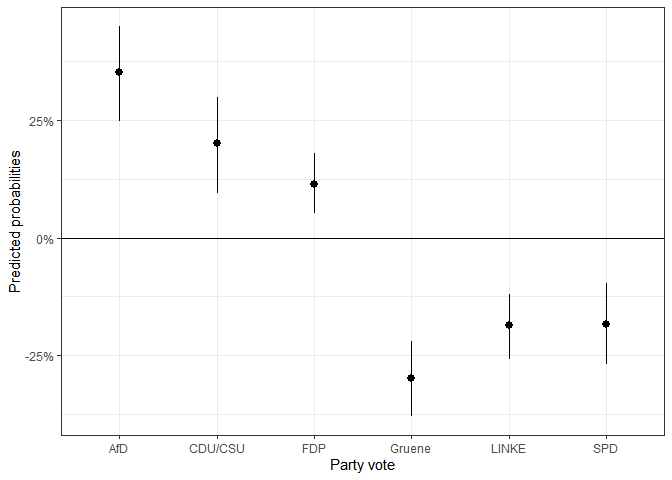
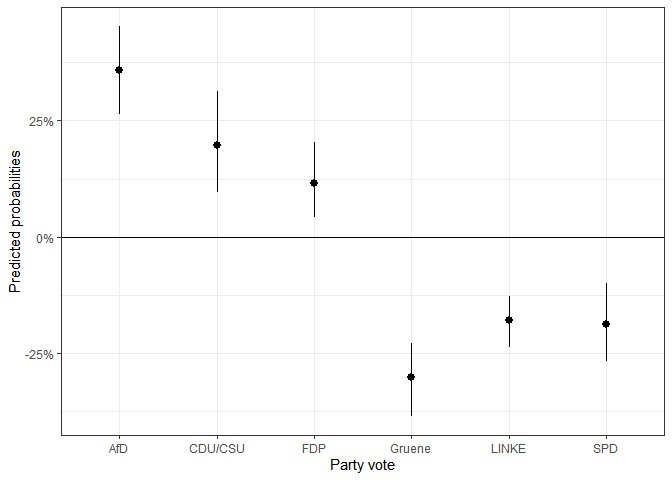
Updated roxygen2

Changed region(s): [[0.0625, 0.4688, 0.9688, 0.5], [0.0312, 0.7188, 0.0938, 0.75], [0.75, 0.6562, 0.7812, 0.6875]]

diff --git a/README.md b/README.md
@@ -7,8 +7,8 @@
 
 [![Travis build
 status](https://travis-ci.org/ManuelNeumann/MNLpred.svg?branch=master)](https://travis-ci.org/ManuelNeumann/MNLpred)
-[![CRAN\_Status\_Badge](http://www.r-pkg.org/badges/version/MNLpred)](http://cran.r-project.org/package=MNLpred)
-[![downloads](http://cranlogs.r-pkg.org/badges/MNLpred)](http://cran.rstudio.com/web/packages/MNLpred/index.html)
+[![CRAN\_Status\_Badge](https://www.r-pkg.org/badges/version/MNLpred)](http://cran.r-project.org/package=MNLpred)
+[![downloads](https://cranlogs.r-pkg.org/badges/MNLpred)](http://cran.rstudio.com/web/packages/MNLpred/index.html)
 [![total\_downloads](https://cranlogs.r-pkg.org/badges/grand-total/MNLpred)](http://cran.rstudio.com/web/packages/MNLpred/index.html)
 <!-- badges: end -->
 
@@ -263,12 +263,12 @@ returns a `plotdata` data set:
 ``` r
 pred1$plotdata %>% head()
 #>   egoposition_immigration vote        mean        lower       upper
-#> 1                       0  AfD 0.002560302 0.0008212766 0.006469958
-#> 2                       1  AfD 0.004862334 0.0018631381 0.011109641
-#> 3                       2  AfD 0.009046314 0.0040917285 0.018509543
-#> 4                       3  AfD 0.016432669 0.0086144400 0.029469860
-#> 5                       4  AfD 0.029034456 0.0175710100 0.046013386
-#> 6                       5  AfD 0.049669972 0.0344344380 0.069375535
+#> 1                       0  AfD 0.002551383 0.0009350245 0.005029258
+#> 2                       1  AfD 0.004842439 0.0021392100 0.008671032
+#> 3                       2  AfD 0.009000998 0.0046635746 0.015262993
+#> 4                       3  AfD 0.016334023 0.0095505658 0.025591613
+#> 5                       4  AfD 0.028828409 0.0191431426 0.042071495
+#> 6                       5  AfD 0.049244764 0.0364713289 0.065916024
 ```
 
 As we can see, it includes the range of the x variable, a mean, a lower,
@@ -354,13 +354,13 @@ used to plot the differences.
 
 ``` r
 fdif2$plotdata_fd %>% head()
-#>   egoposition_immigration vote         mean       lower        upper
-#> 1                       0  AfD -0.003004592 -0.00788632 -0.001029104
-#> 2                       1  AfD -0.005650374 -0.01324906 -0.002179697
-#> 3                       2  AfD -0.010385367 -0.02186791 -0.004571091
-#> 4                       3  AfD -0.018587104 -0.03599670 -0.009316858
-#> 5                       4  AfD -0.032238589 -0.05682488 -0.017223890
-#> 6                       5  AfD -0.053834228 -0.08390635 -0.030473691
+#>   egoposition_immigration vote         mean        lower         upper
+#> 1                       0  AfD -0.002785471 -0.006618214 -0.0008217659
+#> 2                       1  AfD -0.005259506 -0.010972634 -0.0019080486
+#> 3                       2  AfD -0.009712245 -0.017851305 -0.0042050987
+#> 4                       3  AfD -0.017470368 -0.028924102 -0.0083183233
+#> 5                       4  AfD -0.030455572 -0.048350994 -0.0152984534
+#> 6                       5  AfD -0.051095125 -0.077886389 -0.0291022833
 ```
 
 Since the function calls the `mnl_pred_ova()` function internally, it
